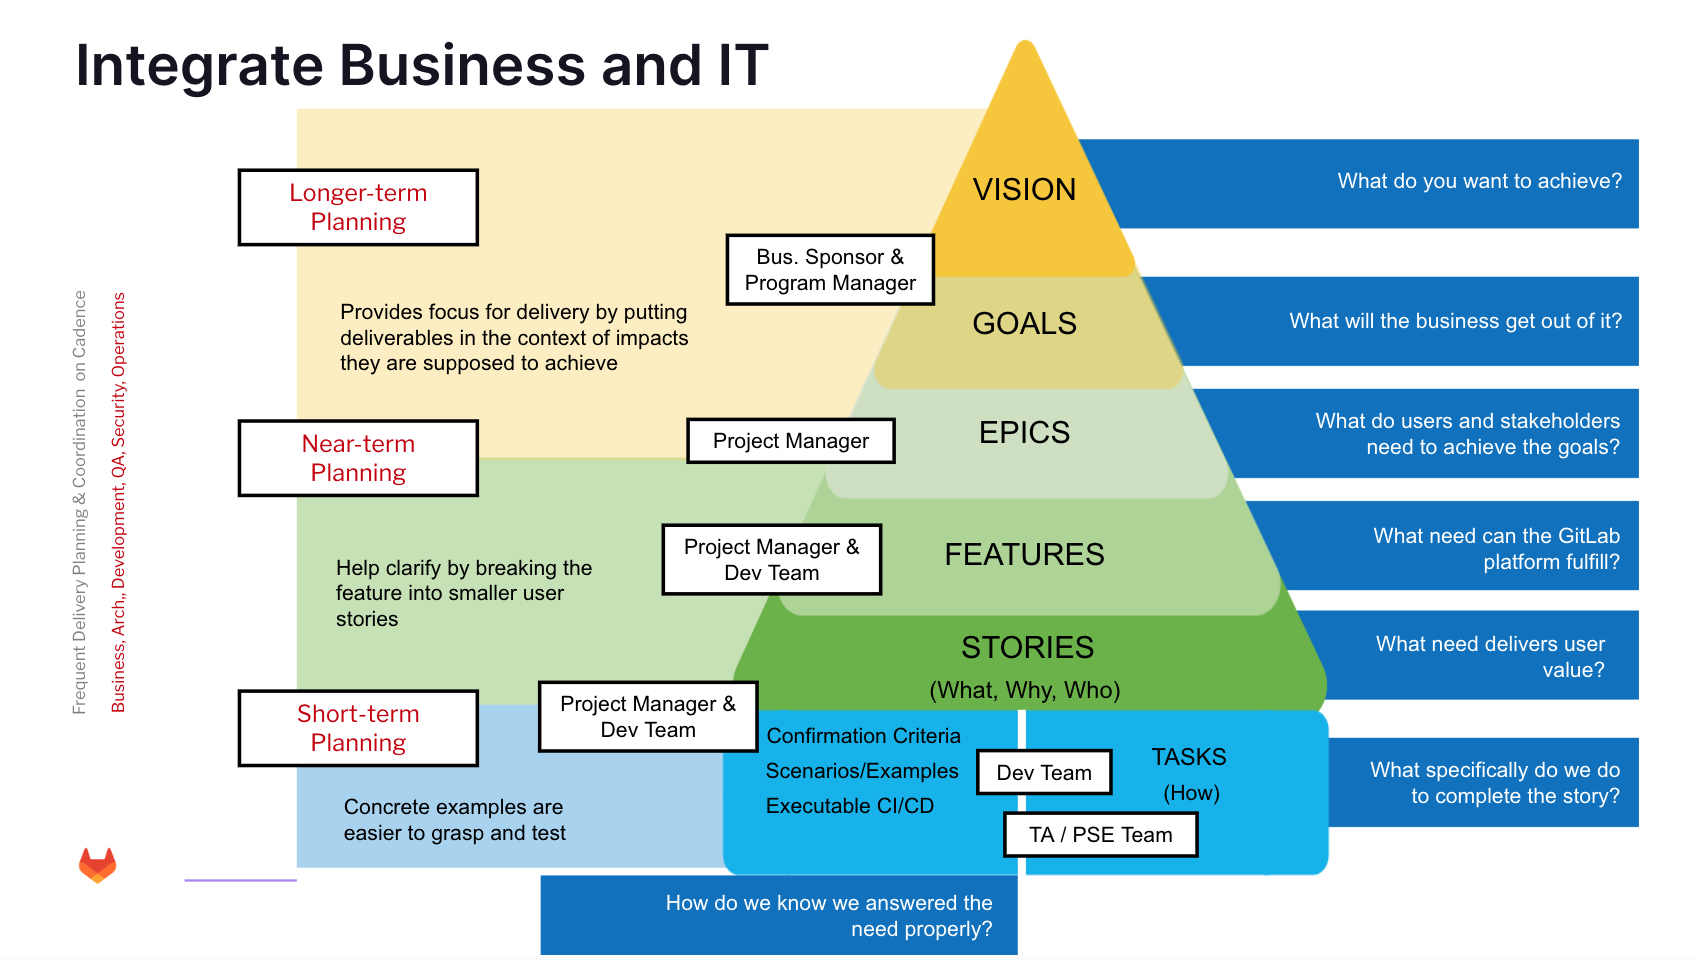
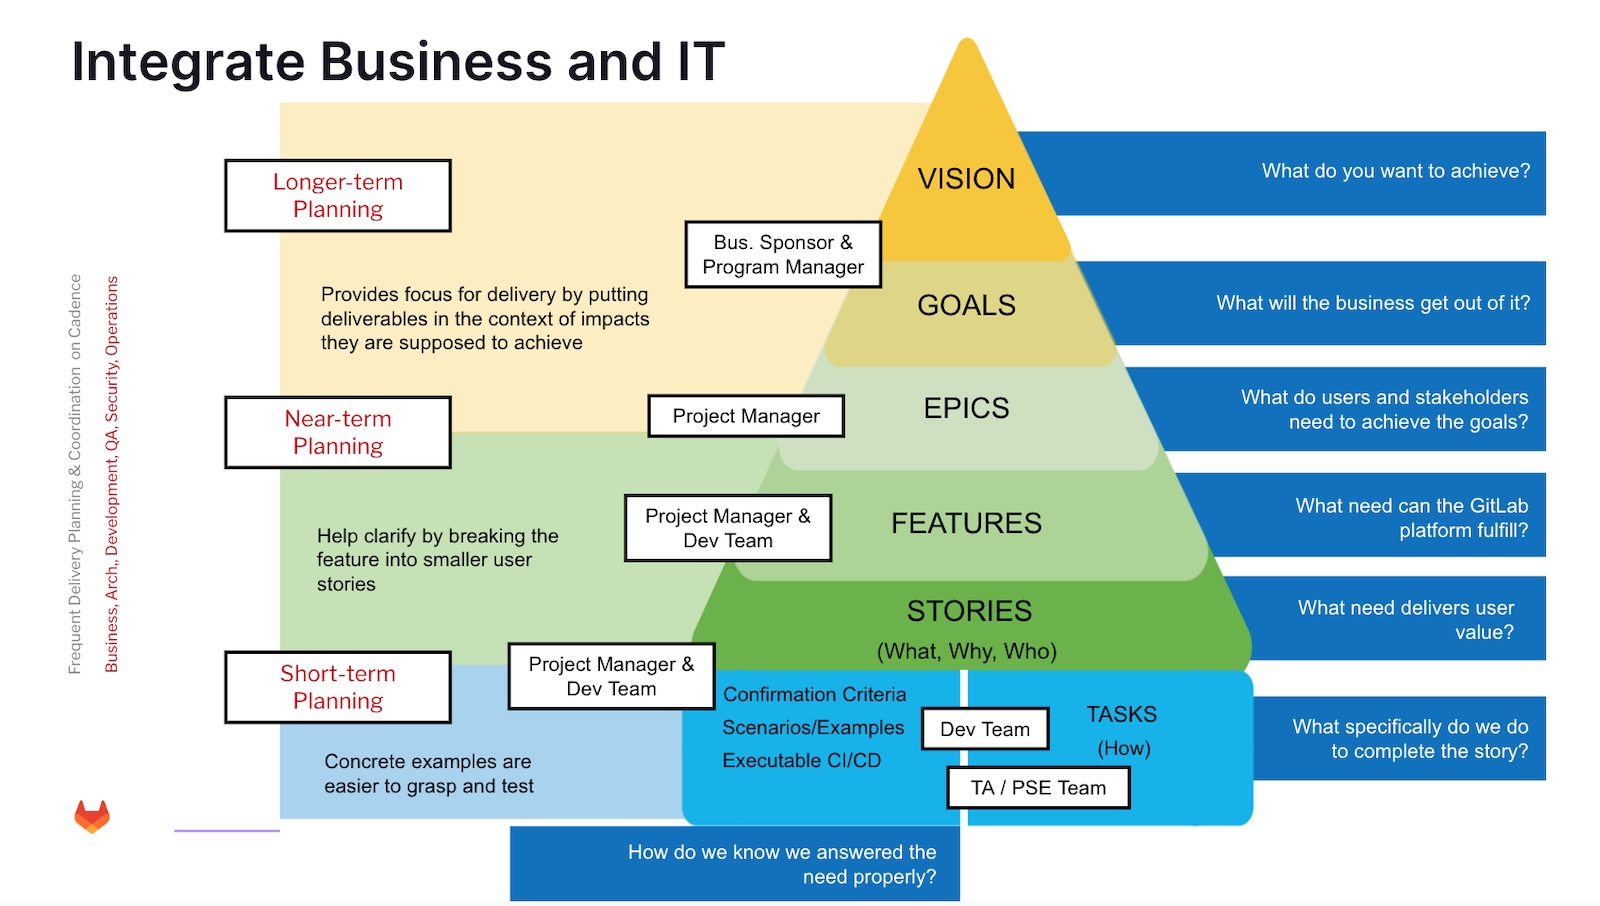
Reduce large image sizes

diff --git a/content/handbook/customer-success/professional-services-engineering/project-mgmt/_index.md b/content/handbook/customer-success/professional-services-engineering/project-mgmt/_index.md
@@ -5,7 +5,7 @@ description: "Learn about the processes that the GitLab Project Management team 
 
 Customer success = GitLab product implementation, on time, on budget delivery of agreed upon scope, faster time to value that leads to satisfied customers that see the added value of GitLab products and PS
 
-![<PS Delivery Customer Journey Flow - Page 1 (10).png>](/images/customer-success/professional-services-engineering/project-mgmt/<PS Delivery Customer Journey Flow - Page 1 (11).png>)
+![PS Delivery Customer Journey Flow - Page 1 (11)](/images/customer-success/professional-services-engineering/project-mgmt/PS Delivery Customer Journey Flow - Page 1 (11).jpg)
 
 ### SOW Close
 
@@ -15,7 +15,7 @@ Given the close collaboration between the PS Project Management and PS Operation
 ### Project Initiate & Plan
 
 1. After obtaining Legal approval, PS Quote triggers an Epic in GitLab.com around the recently sold Professional Services Project, at the [Professional Services Group](https://gitlab.com/gitlab-com/customer-success/professional-services-group) level. This _Customer Epic_ is labeled as SOW# + Customer and includes links to relevant Customer & contract information
-1. Once a prosepctive Services deal reaches "Stage 6" (closing) in the PS Customer Journey, the PSOps team refers to the _Customer Epic_ to find the [_"Scheduling Intake" issue_](https://gitlab.com/gitlab-com/customer-success/professional-services-group/ww-consulting/ps-plan/-/blob/master/.gitlab/issue_templates/SchedulingIntakeQuestions.md?ref_type=heads). From this issue, the Resource Scheduling team works to gather the initial information needed to assign the PS Resources (PM, PSE, TA)
+1. Once a prospective Services deal reaches "Stage 6" (closing) in the PS Customer Journey, the PSOps team refers to the _Customer Epic_ to find the [_"Scheduling Intake" issue_](https://gitlab.com/gitlab-com/customer-success/professional-services-group/ww-consulting/ps-plan/-/blob/master/.gitlab/issue_templates/SchedulingIntakeQuestions.md?ref_type=heads). From this issue, the Resource Scheduling team works to gather the initial information needed to assign the PS Resources (PM, PSE, TA)
    * To find the right resources required, the PSOPs team will refer back to the Customer Epic to find the _"Scope Engagement and Write SoW"_ issue (managed by the Engagement Managment Team). This is where the scheduling team confirm skillsets needed, timing of the project, Project type (Time & Materials or Fixed Fee), etc.
    * This scoping issue this is where the PM's, TA's, and PSE's work to gather the initial project information, scoping breakdown, and estimated schedule
    * The PS Ops team works to ensure all detail in the above template is populated before assigning Delivery resources

diff --git a/content/handbook/customer-success/professional-services-engineering/processes/_index.md b/content/handbook/customer-success/professional-services-engineering/processes/_index.md
@@ -246,7 +246,7 @@ By optimizing and automating internal controls (sign-offs / approvals), cycle ti
 
 The Professional Services process and methodology fits within the Customer journey that is supported by Customer Success.Professional Services contributes to the customer journey from the point of **SOW Close** through the **Project Closee** phase.
 
-![!\[''\](/images/customer-success/professional-services-engineering/processes/customer-journey-mapped-ps-process.png)](<PS Delivery Customer Journey Flow - Page 1 (11).png>)
+![!\[''\](/images/customer-success/professional-services-engineering/processes/customer-journey-mapped-ps-process.png)](<PS Delivery Customer Journey Flow - Page 1 (11).jpg>)
 
  [Source, GitLab Team Members Only](https://docs.google.com/presentation/d/1eC_ocJkzNkH4Vw3v4Vkd3S58a0NALYxXtnb6BZ7pJdc/edit?usp=sharing)
 
